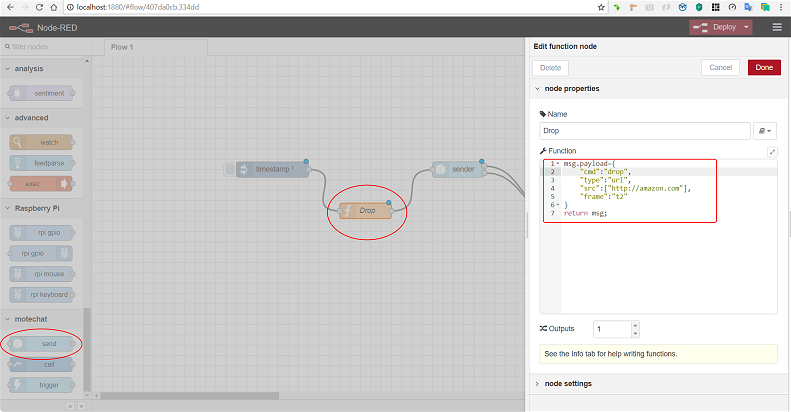
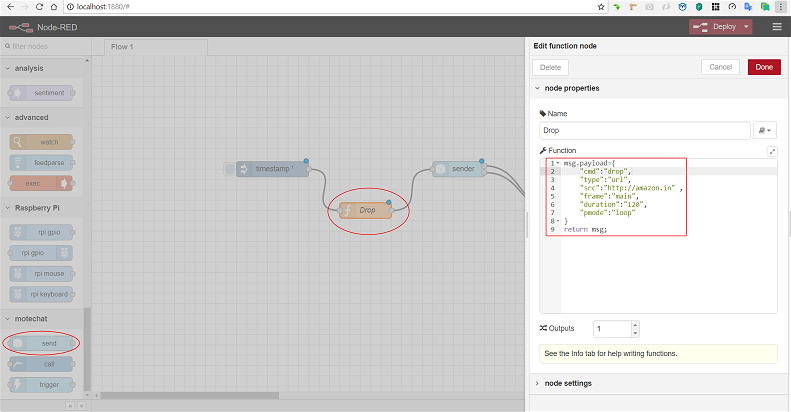
GitBook: [master] one page and 3 assets modified

diff --git a/building-flows-for-smartscreen-drop.md b/building-flows-for-smartscreen-drop.md
@@ -12,6 +12,16 @@ Individual _URL_ on to __SS _frame \#2_
 
 ![](.gitbook/assets/nr_fn_drop.png)
 
+
+
+See the _URL_ dropped on _frame \#2_ of SS
+
+![](.gitbook/assets/4_in_1_marq.png)
+
+Also shown above are the _marquee_ function as well as a _second URL_ pushed to _frame \#3_ while texts pushed to _frame \#1_ and _4..._go ahead & try it for yourself!
+
+
+
 A _SlideShow_ of online Videos, _four_ in all, _each played for 2 mins_, with the show being _repeated_
 
 ![](.gitbook/assets/nr_fn_drop_ss1.png)
